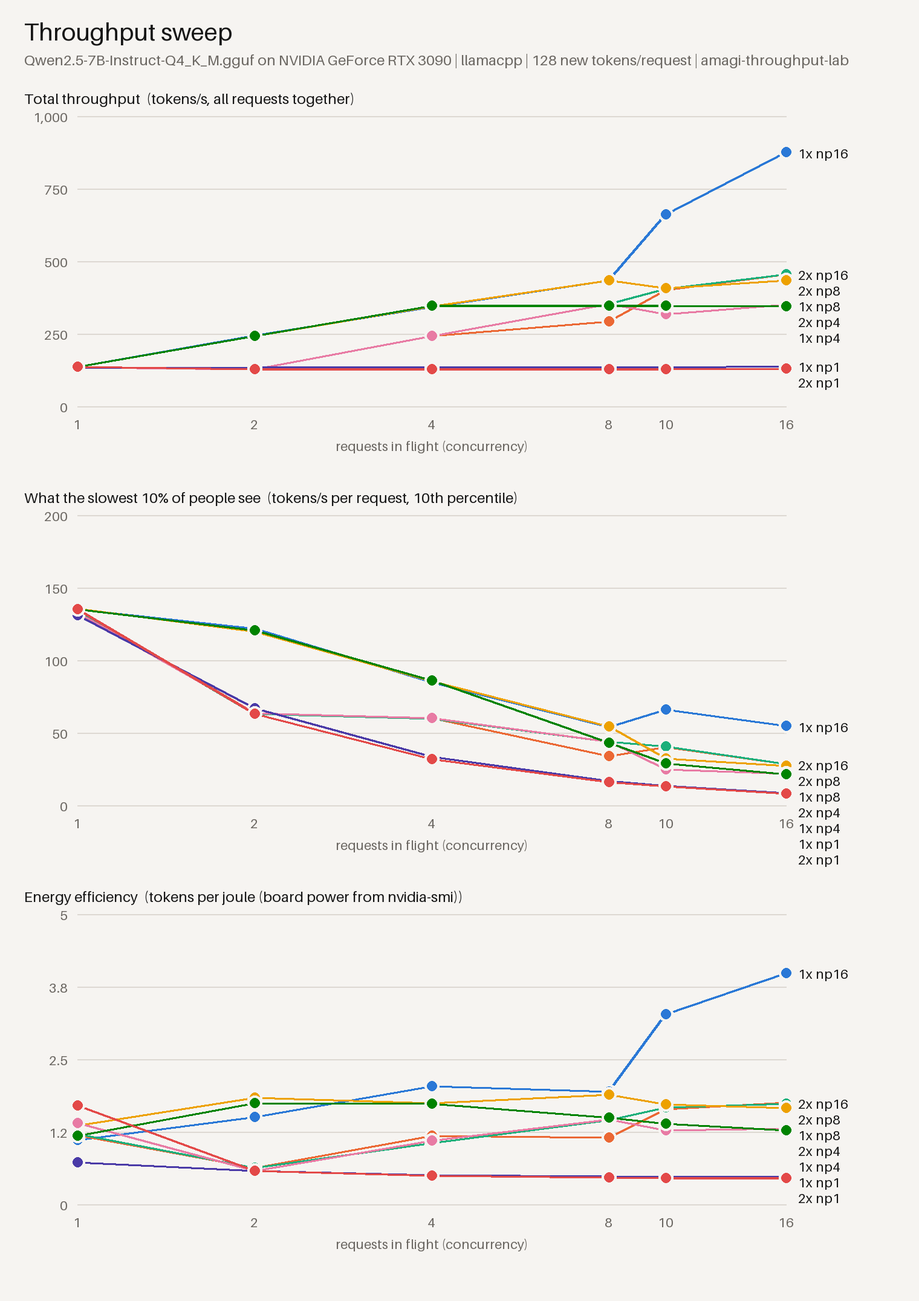
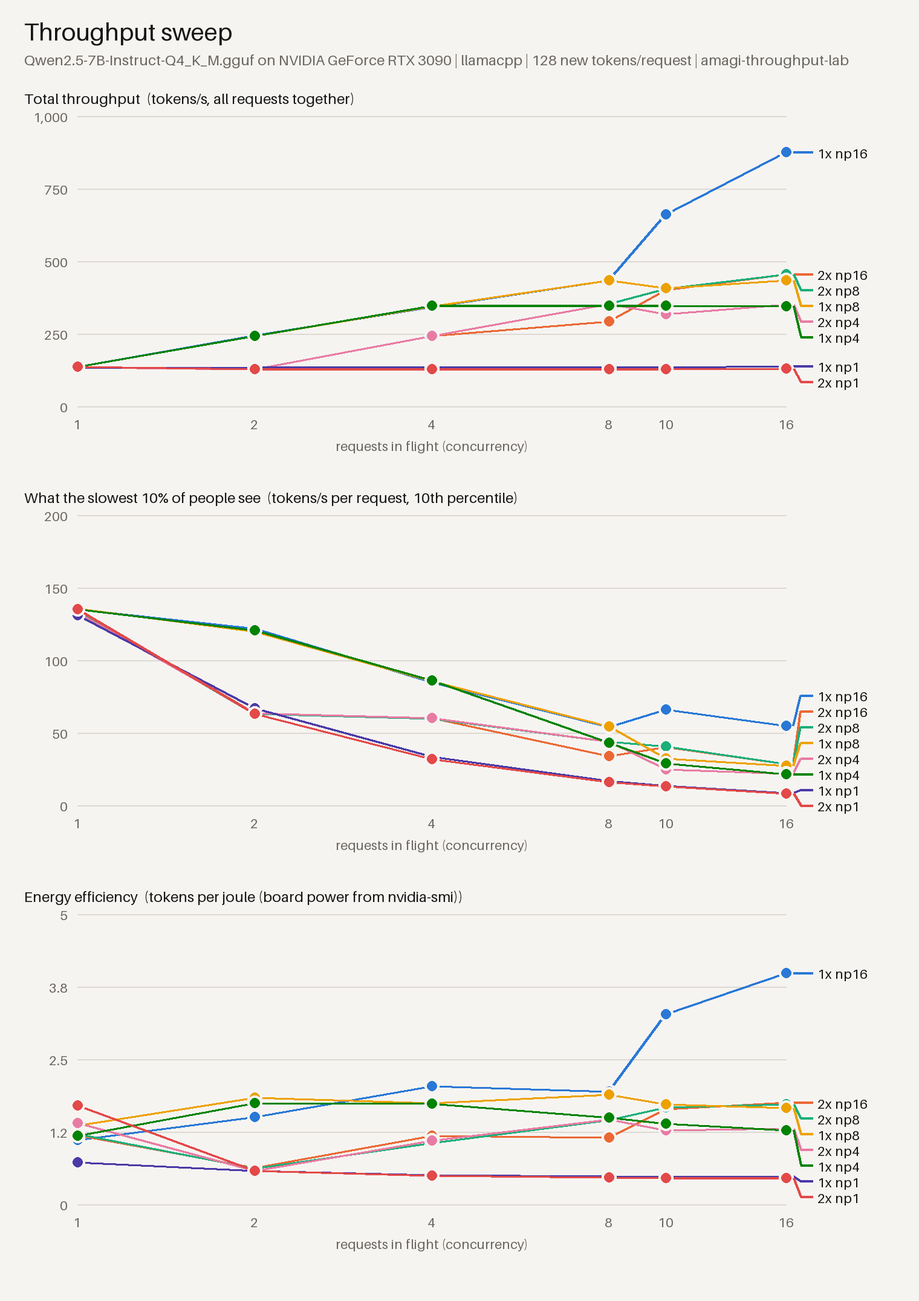
Charts: keep end labels above the axis and key them by color
Labels that had to move now get a short leader line in the series color,
and a crowded stack is pulled back up instead of running under the x-axis.
The recommendation box wraps long commands.

diff --git a/examples/rtx3090-qwen2.5-7b-q4km/report.html b/examples/rtx3090-qwen2.5-7b-q4km/report.html
@@ -14,7 +14,7 @@ h1{font-size:24px;margin:0 0 4px}h2{font-size:17px;margin:30px 0 2px}
 .pt:hover circle:last-of-type{r:6}
 .legend{display:flex;flex-wrap:wrap;gap:4px 16px;font-size:13px;margin:4px 0 0}
 .legend span::before{content:'';display:inline-block;width:14px;height:3px;border-radius:2px;margin-right:6px;vertical-align:middle;background:var(--c)}
-pre{background:var(--code);padding:12px;border-radius:6px;overflow:auto;font-size:13px}
+pre{background:var(--code);padding:12px;border-radius:6px;overflow:auto;white-space:pre-wrap;font-size:13px}
 table{border-collapse:collapse;font-size:12.5px;width:100%;margin-top:6px}
 th,td{padding:4px 6px;border-bottom:1px solid var(--grid);text-align:right}
 th{color:var(--muted);font-weight:600}td:last-child,th:last-child{text-align:left}
@@ -61,7 +61,8 @@ Also met the target:
 <g class="pt"><circle cx="503.5" cy="151.7" r="12" fill="transparent"/><circle cx="503.5" cy="151.7" r="4" fill="var(--s1)" stroke="var(--surface)" stroke-width="2"/><title>1x np16 at 8 in flight: 434.59</title></g>
 <g class="pt"><circle cx="550.7" cy="97.1" r="12" fill="transparent"/><circle cx="550.7" cy="97.1" r="4" fill="var(--s1)" stroke="var(--surface)" stroke-width="2"/><title>1x np16 at 10 in flight: 662.06</title></g>
 <g class="pt"><circle cx="650.0" cy="46.0" r="12" fill="transparent"/><circle cx="650.0" cy="46.0" r="4" fill="var(--s1)" stroke="var(--surface)" stroke-width="2"/><title>1x np16 at 16 in flight: 875.01</title></g>
-<text x="660.0" y="50.0" class="lbl">1x np16</text>
+<polyline points="656.0,46.0 662.0,46.0 672.0,46.0" fill="none" stroke="var(--s1)" stroke-width="2"/>
+<text x="676.0" y="50.0" class="lbl">1x np16</text>
 <path d="M64.0,223.4 L210.5,225.4 L357.0,197.9 L503.5,185.8 L550.7,159.5 L650.0,146.6" fill="none" stroke="var(--s2)" stroke-width="2" stroke-linejoin="round" stroke-linecap="round"/>
 <g class="pt"><circle cx="64.0" cy="223.4" r="12" fill="transparent"/><circle cx="64.0" cy="223.4" r="4" fill="var(--s2)" stroke="var(--surface)" stroke-width="2"/><title>2x np16 at 1 in flight: 135.70</title></g>
 <g class="pt"><circle cx="210.5" cy="225.4" r="12" fill="transparent"/><circle cx="210.5" cy="225.4" r="4" fill="var(--s2)" stroke="var(--surface)" stroke-width="2"/><title>2x np16 at 2 in flight: 127.70</title></g>
@@ -69,7 +70,8 @@ Also met the target:
 <g class="pt"><circle cx="503.5" cy="185.8" r="12" fill="transparent"/><circle cx="503.5" cy="185.8" r="4" fill="var(--s2)" stroke="var(--surface)" stroke-width="2"/><title>2x np16 at 8 in flight: 292.36</title></g>
 <g class="pt"><circle cx="550.7" cy="159.5" r="12" fill="transparent"/><circle cx="550.7" cy="159.5" r="4" fill="var(--s2)" stroke="var(--surface)" stroke-width="2"/><title>2x np16 at 10 in flight: 401.91</title></g>
 <g class="pt"><circle cx="650.0" cy="146.6" r="12" fill="transparent"/><circle cx="650.0" cy="146.6" r="4" fill="var(--s2)" stroke="var(--surface)" stroke-width="2"/><title>2x np16 at 16 in flight: 455.83</title></g>
-<text x="660.0" y="150.6" class="lbl">2x np16</text>
+<polyline points="656.0,146.6 662.0,146.6 672.0,146.6" fill="none" stroke="var(--s2)" stroke-width="2"/>
+<text x="676.0" y="150.6" class="lbl">2x np16</text>
 <path d="M64.0,223.5 L210.5,225.3 L357.0,197.9 L503.5,171.5 L550.7,158.9 L650.0,146.8" fill="none" stroke="var(--s3)" stroke-width="2" stroke-linejoin="round" stroke-linecap="round"/>
 <g class="pt"><circle cx="64.0" cy="223.5" r="12" fill="transparent"/><circle cx="64.0" cy="223.5" r="4" fill="var(--s3)" stroke="var(--surface)" stroke-width="2"/><title>2x np8 at 1 in flight: 135.40</title></g>
 <g class="pt"><circle cx="210.5" cy="225.3" r="12" fill="transparent"/><circle cx="210.5" cy="225.3" r="4" fill="var(--s3)" stroke="var(--surface)" stroke-width="2"/><title>2x np8 at 2 in flight: 127.71</title></g>
@@ -77,7 +79,8 @@ Also met the target:
 <g class="pt"><circle cx="503.5" cy="171.5" r="12" fill="transparent"/><circle cx="503.5" cy="171.5" r="4" fill="var(--s3)" stroke="var(--surface)" stroke-width="2"/><title>2x np8 at 8 in flight: 352.08</title></g>
 <g class="pt"><circle cx="550.7" cy="158.9" r="12" fill="transparent"/><circle cx="550.7" cy="158.9" r="4" fill="var(--s3)" stroke="var(--surface)" stroke-width="2"/><title>2x np8 at 10 in flight: 404.42</title></g>
 <g class="pt"><circle cx="650.0" cy="146.8" r="12" fill="transparent"/><circle cx="650.0" cy="146.8" r="4" fill="var(--s3)" stroke="var(--surface)" stroke-width="2"/><title>2x np8 at 16 in flight: 455.08</title></g>
-<text x="660.0" y="163.6" class="lbl">2x np8</text>
+<polyline points="656.0,146.8 662.0,159.6 672.0,159.6" fill="none" stroke="var(--s3)" stroke-width="2"/>
+<text x="676.0" y="163.6" class="lbl">2x np8</text>
 <path d="M64.0,223.0 L210.5,197.7 L357.0,173.1 L503.5,151.5 L550.7,158.4 L650.0,151.6" fill="none" stroke="var(--s4)" stroke-width="2" stroke-linejoin="round" stroke-linecap="round"/>
 <g class="pt"><circle cx="64.0" cy="223.0" r="12" fill="transparent"/><circle cx="64.0" cy="223.0" r="4" fill="var(--s4)" stroke="var(--surface)" stroke-width="2"/><title>1x np8 at 1 in flight: 137.32</title></g>
 <g class="pt"><circle cx="210.5" cy="197.7" r="12" fill="transparent"/><circle cx="210.5" cy="197.7" r="4" fill="var(--s4)" stroke="var(--surface)" stroke-width="2"/><title>1x np8 at 2 in flight: 242.75</title></g>
@@ -85,7 +88,8 @@ Also met the target:
 <g class="pt"><circle cx="503.5" cy="151.5" r="12" fill="transparent"/><circle cx="503.5" cy="151.5" r="4" fill="var(--s4)" stroke="var(--surface)" stroke-width="2"/><title>1x np8 at 8 in flight: 435.32</title></g>
 <g class="pt"><circle cx="550.7" cy="158.4" r="12" fill="transparent"/><circle cx="550.7" cy="158.4" r="4" fill="var(--s4)" stroke="var(--surface)" stroke-width="2"/><title>1x np8 at 10 in flight: 406.67</title></g>
 <g class="pt"><circle cx="650.0" cy="151.6" r="12" fill="transparent"/><circle cx="650.0" cy="151.6" r="4" fill="var(--s4)" stroke="var(--surface)" stroke-width="2"/><title>1x np8 at 16 in flight: 434.94</title></g>
-<text x="660.0" y="176.6" class="lbl">1x np8</text>
+<polyline points="656.0,151.6 662.0,172.6 672.0,172.6" fill="none" stroke="var(--s4)" stroke-width="2"/>
+<text x="676.0" y="176.6" class="lbl">1x np8</text>
 <path d="M64.0,223.6 L210.5,225.3 L357.0,198.0 L503.5,171.4 L550.7,179.6 L650.0,171.6" fill="none" stroke="var(--s5)" stroke-width="2" stroke-linejoin="round" stroke-linecap="round"/>
 <g class="pt"><circle cx="64.0" cy="223.6" r="12" fill="transparent"/><circle cx="64.0" cy="223.6" r="4" fill="var(--s5)" stroke="var(--surface)" stroke-width="2"/><title>2x np4 at 1 in flight: 134.92</title></g>
 <g class="pt"><circle cx="210.5" cy="225.3" r="12" fill="transparent"/><circle cx="210.5" cy="225.3" r="4" fill="var(--s5)" stroke="var(--surface)" stroke-width="2"/><title>2x np4 at 2 in flight: 127.88</title></g>
@@ -93,7 +97,8 @@ Also met the target:
 <g class="pt"><circle cx="503.5" cy="171.4" r="12" fill="transparent"/><circle cx="503.5" cy="171.4" r="4" fill="var(--s5)" stroke="var(--surface)" stroke-width="2"/><title>2x np4 at 8 in flight: 352.42</title></g>
 <g class="pt"><circle cx="550.7" cy="179.6" r="12" fill="transparent"/><circle cx="550.7" cy="179.6" r="4" fill="var(--s5)" stroke="var(--surface)" stroke-width="2"/><title>2x np4 at 10 in flight: 318.25</title></g>
 <g class="pt"><circle cx="650.0" cy="171.6" r="12" fill="transparent"/><circle cx="650.0" cy="171.6" r="4" fill="var(--s5)" stroke="var(--surface)" stroke-width="2"/><title>2x np4 at 16 in flight: 351.83</title></g>
-<text x="660.0" y="189.6" class="lbl">2x np4</text>
+<polyline points="656.0,171.6 662.0,185.6 672.0,185.6" fill="none" stroke="var(--s5)" stroke-width="2"/>
+<text x="676.0" y="189.6" class="lbl">2x np4</text>
 <path d="M64.0,223.1 L210.5,197.6 L357.0,172.7 L503.5,172.9 L550.7,172.8 L650.0,173.2" fill="none" stroke="var(--s6)" stroke-width="2" stroke-linejoin="round" stroke-linecap="round"/>
 <g class="pt"><circle cx="64.0" cy="223.1" r="12" fill="transparent"/><circle cx="64.0" cy="223.1" r="4" fill="var(--s6)" stroke="var(--surface)" stroke-width="2"/><title>1x np4 at 1 in flight: 137.03</title></g>
 <g class="pt"><circle cx="210.5" cy="197.6" r="12" fill="transparent"/><circle cx="210.5" cy="197.6" r="4" fill="var(--s6)" stroke="var(--surface)" stroke-width="2"/><title>1x np4 at 2 in flight: 243.28</title></g>
@@ -101,7 +106,8 @@ Also met the target:
 <g class="pt"><circle cx="503.5" cy="172.9" r="12" fill="transparent"/><circle cx="503.5" cy="172.9" r="4" fill="var(--s6)" stroke="var(--surface)" stroke-width="2"/><title>1x np4 at 8 in flight: 346.32</title></g>
 <g class="pt"><circle cx="550.7" cy="172.8" r="12" fill="transparent"/><circle cx="550.7" cy="172.8" r="4" fill="var(--s6)" stroke="var(--surface)" stroke-width="2"/><title>1x np4 at 10 in flight: 346.76</title></g>
 <g class="pt"><circle cx="650.0" cy="173.2" r="12" fill="transparent"/><circle cx="650.0" cy="173.2" r="4" fill="var(--s6)" stroke="var(--surface)" stroke-width="2"/><title>1x np4 at 16 in flight: 344.83</title></g>
-<text x="660.0" y="202.6" class="lbl">1x np4</text>
+<polyline points="656.0,173.2 662.0,198.6 672.0,198.6" fill="none" stroke="var(--s6)" stroke-width="2"/>
+<text x="676.0" y="202.6" class="lbl">1x np4</text>
 <path d="M64.0,224.1 L210.5,223.8 L357.0,223.7 L503.5,223.8 L550.7,223.9 L650.0,222.6" fill="none" stroke="var(--s7)" stroke-width="2" stroke-linejoin="round" stroke-linecap="round"/>
 <g class="pt"><circle cx="64.0" cy="224.1" r="12" fill="transparent"/><circle cx="64.0" cy="224.1" r="4" fill="var(--s7)" stroke="var(--surface)" stroke-width="2"/><title>1x np1 at 1 in flight: 133.09</title></g>
 <g class="pt"><circle cx="210.5" cy="223.8" r="12" fill="transparent"/><circle cx="210.5" cy="223.8" r="4" fill="var(--s7)" stroke="var(--surface)" stroke-width="2"/><title>1x np1 at 2 in flight: 134.35</title></g>
@@ -109,7 +115,8 @@ Also met the target:
 <g class="pt"><circle cx="503.5" cy="223.8" r="12" fill="transparent"/><circle cx="503.5" cy="223.8" r="4" fill="var(--s7)" stroke="var(--surface)" stroke-width="2"/><title>1x np1 at 8 in flight: 134.31</title></g>
 <g class="pt"><circle cx="550.7" cy="223.9" r="12" fill="transparent"/><circle cx="550.7" cy="223.9" r="4" fill="var(--s7)" stroke="var(--surface)" stroke-width="2"/><title>1x np1 at 10 in flight: 133.75</title></g>
 <g class="pt"><circle cx="650.0" cy="222.6" r="12" fill="transparent"/><circle cx="650.0" cy="222.6" r="4" fill="var(--s7)" stroke="var(--surface)" stroke-width="2"/><title>1x np1 at 16 in flight: 139.20</title></g>
-<text x="660.0" y="226.6" class="lbl">1x np1</text>
+<polyline points="656.0,222.6 662.0,222.6 672.0,222.6" fill="none" stroke="var(--s7)" stroke-width="2"/>
+<text x="676.0" y="226.6" class="lbl">1x np1</text>
 <path d="M64.0,223.2 L210.5,225.4 L357.0,225.2 L503.5,225.0 L550.7,225.0 L650.0,225.0" fill="none" stroke="var(--s8)" stroke-width="2" stroke-linejoin="round" stroke-linecap="round"/>
 <g class="pt"><circle cx="64.0" cy="223.2" r="12" fill="transparent"/><circle cx="64.0" cy="223.2" r="4" fill="var(--s8)" stroke="var(--surface)" stroke-width="2"/><title>2x np1 at 1 in flight: 136.46</title></g>
 <g class="pt"><circle cx="210.5" cy="225.4" r="12" fill="transparent"/><circle cx="210.5" cy="225.4" r="4" fill="var(--s8)" stroke="var(--surface)" stroke-width="2"/><title>2x np1 at 2 in flight: 127.43</title></g>
@@ -117,7 +124,8 @@ Also met the target:
 <g class="pt"><circle cx="503.5" cy="225.0" r="12" fill="transparent"/><circle cx="503.5" cy="225.0" r="4" fill="var(--s8)" stroke="var(--surface)" stroke-width="2"/><title>2x np1 at 8 in flight: 129.01</title></g>
 <g class="pt"><circle cx="550.7" cy="225.0" r="12" fill="transparent"/><circle cx="550.7" cy="225.0" r="4" fill="var(--s8)" stroke="var(--surface)" stroke-width="2"/><title>2x np1 at 10 in flight: 129.07</title></g>
 <g class="pt"><circle cx="650.0" cy="225.0" r="12" fill="transparent"/><circle cx="650.0" cy="225.0" r="4" fill="var(--s8)" stroke="var(--surface)" stroke-width="2"/><title>2x np1 at 16 in flight: 129.22</title></g>
-<text x="660.0" y="239.6" class="lbl">2x np1</text>
+<polyline points="656.0,225.0 662.0,235.6 672.0,235.6" fill="none" stroke="var(--s8)" stroke-width="2"/>
+<text x="676.0" y="239.6" class="lbl">2x np1</text>
 </svg>
 <div class="legend"><span style="--c:var(--s1)">1x np16</span><span style="--c:var(--s2)">2x np16</span><span style="--c:var(--s3)">2x np8</span><span style="--c:var(--s4)">1x np8</span><span style="--c:var(--s5)">2x np4</span><span style="--c:var(--s6)">1x np4</span><span style="--c:var(--s7)">1x np1</span><span style="--c:var(--s8)">2x np1</span></div>
 <h2>What the slowest 10% of people see</h2><p class="unit">tokens/s per request, 10th percentile</p>
@@ -147,7 +155,8 @@ Also met the target:
 <g class="pt"><circle cx="503.5" cy="191.0" r="12" fill="transparent"/><circle cx="503.5" cy="191.0" r="4" fill="var(--s1)" stroke="var(--surface)" stroke-width="2"/><title>1x np16 at 8 in flight: 54.15</title></g>
 <g class="pt"><circle cx="550.7" cy="176.9" r="12" fill="transparent"/><circle cx="550.7" cy="176.9" r="4" fill="var(--s1)" stroke="var(--surface)" stroke-width="2"/><title>1x np16 at 10 in flight: 65.92</title></g>
 <g class="pt"><circle cx="650.0" cy="190.5" r="12" fill="transparent"/><circle cx="650.0" cy="190.5" r="4" fill="var(--s1)" stroke="var(--surface)" stroke-width="2"/><title>1x np16 at 16 in flight: 54.59</title></g>
-<text x="660.0" y="194.5" class="lbl">1x np16</text>
+<polyline points="656.0,190.5 662.0,165.0 672.0,165.0" fill="none" stroke="var(--s1)" stroke-width="2"/>
+<text x="676.0" y="169.0" class="lbl">1x np16</text>
 <path d="M64.0,95.0 L210.5,179.9 L357.0,184.0 L503.5,215.4 L550.7,207.9 L650.0,221.9" fill="none" stroke="var(--s2)" stroke-width="2" stroke-linejoin="round" stroke-linecap="round"/>
 <g class="pt"><circle cx="64.0" cy="95.0" r="12" fill="transparent"/><circle cx="64.0" cy="95.0" r="4" fill="var(--s2)" stroke="var(--surface)" stroke-width="2"/><title>2x np16 at 1 in flight: 134.19</title></g>
 <g class="pt"><circle cx="210.5" cy="179.9" r="12" fill="transparent"/><circle cx="210.5" cy="179.9" r="4" fill="var(--s2)" stroke="var(--surface)" stroke-width="2"/><title>2x np16 at 2 in flight: 63.40</title></g>
@@ -155,7 +164,8 @@ Also met the target:
 <g class="pt"><circle cx="503.5" cy="215.4" r="12" fill="transparent"/><circle cx="503.5" cy="215.4" r="4" fill="var(--s2)" stroke="var(--surface)" stroke-width="2"/><title>2x np16 at 8 in flight: 33.80</title></g>
 <g class="pt"><circle cx="550.7" cy="207.9" r="12" fill="transparent"/><circle cx="550.7" cy="207.9" r="4" fill="var(--s2)" stroke="var(--surface)" stroke-width="2"/><title>2x np16 at 10 in flight: 40.12</title></g>
 <g class="pt"><circle cx="650.0" cy="221.9" r="12" fill="transparent"/><circle cx="650.0" cy="221.9" r="4" fill="var(--s2)" stroke="var(--surface)" stroke-width="2"/><title>2x np16 at 16 in flight: 28.44</title></g>
-<text x="660.0" y="225.9" class="lbl">2x np16</text>
+<polyline points="656.0,221.9 662.0,178.0 672.0,178.0" fill="none" stroke="var(--s2)" stroke-width="2"/>
+<text x="676.0" y="182.0" class="lbl">2x np16</text>
 <path d="M64.0,94.8 L210.5,180.1 L357.0,184.1 L503.5,203.4 L550.7,207.5 L650.0,221.9" fill="none" stroke="var(--s3)" stroke-width="2" stroke-linejoin="round" stroke-linecap="round"/>
 <g class="pt"><circle cx="64.0" cy="94.8" r="12" fill="transparent"/><circle cx="64.0" cy="94.8" r="4" fill="var(--s3)" stroke="var(--surface)" stroke-width="2"/><title>2x np8 at 1 in flight: 134.34</title></g>
 <g class="pt"><circle cx="210.5" cy="180.1" r="12" fill="transparent"/><circle cx="210.5" cy="180.1" r="4" fill="var(--s3)" stroke="var(--surface)" stroke-width="2"/><title>2x np8 at 2 in flight: 63.29</title></g>
@@ -163,7 +173,8 @@ Also met the target:
 <g class="pt"><circle cx="503.5" cy="203.4" r="12" fill="transparent"/><circle cx="503.5" cy="203.4" r="4" fill="var(--s3)" stroke="var(--surface)" stroke-width="2"/><title>2x np8 at 8 in flight: 43.85</title></g>
 <g class="pt"><circle cx="550.7" cy="207.5" r="12" fill="transparent"/><circle cx="550.7" cy="207.5" r="4" fill="var(--s3)" stroke="var(--surface)" stroke-width="2"/><title>2x np8 at 10 in flight: 40.43</title></g>
 <g class="pt"><circle cx="650.0" cy="221.9" r="12" fill="transparent"/><circle cx="650.0" cy="221.9" r="4" fill="var(--s3)" stroke="var(--surface)" stroke-width="2"/><title>2x np8 at 16 in flight: 28.42</title></g>
-<text x="660.0" y="238.9" class="lbl">2x np8</text>
+<polyline points="656.0,221.9 662.0,191.0 672.0,191.0" fill="none" stroke="var(--s3)" stroke-width="2"/>
+<text x="676.0" y="195.0" class="lbl">2x np8</text>
 <path d="M64.0,93.1 L210.5,112.4 L357.0,153.3 L503.5,190.8 L550.7,217.3 L650.0,223.4" fill="none" stroke="var(--s4)" stroke-width="2" stroke-linejoin="round" stroke-linecap="round"/>
 <g class="pt"><circle cx="64.0" cy="93.1" r="12" fill="transparent"/><circle cx="64.0" cy="93.1" r="4" fill="var(--s4)" stroke="var(--surface)" stroke-width="2"/><title>1x np8 at 1 in flight: 135.76</title></g>
 <g class="pt"><circle cx="210.5" cy="112.4" r="12" fill="transparent"/><circle cx="210.5" cy="112.4" r="4" fill="var(--s4)" stroke="var(--surface)" stroke-width="2"/><title>1x np8 at 2 in flight: 119.65</title></g>
@@ -171,7 +182,8 @@ Also met the target:
 <g class="pt"><circle cx="503.5" cy="190.8" r="12" fill="transparent"/><circle cx="503.5" cy="190.8" r="4" fill="var(--s4)" stroke="var(--surface)" stroke-width="2"/><title>1x np8 at 8 in flight: 54.31</title></g>
 <g class="pt"><circle cx="550.7" cy="217.3" r="12" fill="transparent"/><circle cx="550.7" cy="217.3" r="4" fill="var(--s4)" stroke="var(--surface)" stroke-width="2"/><title>1x np8 at 10 in flight: 32.22</title></g>
 <g class="pt"><circle cx="650.0" cy="223.4" r="12" fill="transparent"/><circle cx="650.0" cy="223.4" r="4" fill="var(--s4)" stroke="var(--surface)" stroke-width="2"/><title>1x np8 at 16 in flight: 27.20</title></g>
-<text x="660.0" y="251.9" class="lbl">1x np8</text>
+<polyline points="656.0,223.4 662.0,204.0 672.0,204.0" fill="none" stroke="var(--s4)" stroke-width="2"/>
+<text x="676.0" y="208.0" class="lbl">1x np8</text>
 <path d="M64.0,96.5 L210.5,180.0 L357.0,184.0 L503.5,203.3 L550.7,226.4 L650.0,229.6" fill="none" stroke="var(--s5)" stroke-width="2" stroke-linejoin="round" stroke-linecap="round"/>
 <g class="pt"><circle cx="64.0" cy="96.5" r="12" fill="transparent"/><circle cx="64.0" cy="96.5" r="4" fill="var(--s5)" stroke="var(--surface)" stroke-width="2"/><title>2x np4 at 1 in flight: 132.89</title></g>
 <g class="pt"><circle cx="210.5" cy="180.0" r="12" fill="transparent"/><circle cx="210.5" cy="180.0" r="4" fill="var(--s5)" stroke="var(--surface)" stroke-width="2"/><title>2x np4 at 2 in flight: 63.37</title></g>
@@ -179,7 +191,8 @@ Also met the target:
 <g class="pt"><circle cx="503.5" cy="203.3" r="12" fill="transparent"/><circle cx="503.5" cy="203.3" r="4" fill="var(--s5)" stroke="var(--surface)" stroke-width="2"/><title>2x np4 at 8 in flight: 43.88</title></g>
 <g class="pt"><circle cx="550.7" cy="226.4" r="12" fill="transparent"/><circle cx="550.7" cy="226.4" r="4" fill="var(--s5)" stroke="var(--surface)" stroke-width="2"/><title>2x np4 at 10 in flight: 24.69</title></g>
 <g class="pt"><circle cx="650.0" cy="229.6" r="12" fill="transparent"/><circle cx="650.0" cy="229.6" r="4" fill="var(--s5)" stroke="var(--surface)" stroke-width="2"/><title>2x np4 at 16 in flight: 22.00</title></g>
-<text x="660.0" y="264.9" class="lbl">2x np4</text>
+<polyline points="656.0,229.6 662.0,217.0 672.0,217.0" fill="none" stroke="var(--s5)" stroke-width="2"/>
+<text x="676.0" y="221.0" class="lbl">2x np4</text>
 <path d="M64.0,93.6 L210.5,111.3 L357.0,152.5 L503.5,204.2 L550.7,221.2 L650.0,230.1" fill="none" stroke="var(--s6)" stroke-width="2" stroke-linejoin="round" stroke-linecap="round"/>
 <g class="pt"><circle cx="64.0" cy="93.6" r="12" fill="transparent"/><circle cx="64.0" cy="93.6" r="4" fill="var(--s6)" stroke="var(--surface)" stroke-width="2"/><title>1x np4 at 1 in flight: 135.35</title></g>
 <g class="pt"><circle cx="210.5" cy="111.3" r="12" fill="transparent"/><circle cx="210.5" cy="111.3" r="4" fill="var(--s6)" stroke="var(--surface)" stroke-width="2"/><title>1x np4 at 2 in flight: 120.62</title></g>
@@ -187,7 +200,8 @@ Also met the target:
 <g class="pt"><circle cx="503.5" cy="204.2" r="12" fill="transparent"/><circle cx="503.5" cy="204.2" r="4" fill="var(--s6)" stroke="var(--surface)" stroke-width="2"/><title>1x np4 at 8 in flight: 43.15</title></g>
 <g class="pt"><circle cx="550.7" cy="221.2" r="12" fill="transparent"/><circle cx="550.7" cy="221.2" r="4" fill="var(--s6)" stroke="var(--surface)" stroke-width="2"/><title>1x np4 at 10 in flight: 28.99</title></g>
 <g class="pt"><circle cx="650.0" cy="230.1" r="12" fill="transparent"/><circle cx="650.0" cy="230.1" r="4" fill="var(--s6)" stroke="var(--surface)" stroke-width="2"/><title>1x np4 at 16 in flight: 21.57</title></g>
-<text x="660.0" y="277.9" class="lbl">1x np4</text>
+<polyline points="656.0,230.1 662.0,230.0 672.0,230.0" fill="none" stroke="var(--s6)" stroke-width="2"/>
+<text x="676.0" y="234.0" class="lbl">1x np4</text>
 <path d="M64.0,98.8 L210.5,175.7 L357.0,215.8 L503.5,235.9 L550.7,240.0 L650.0,245.5" fill="none" stroke="var(--s7)" stroke-width="2" stroke-linejoin="round" stroke-linecap="round"/>
 <g class="pt"><circle cx="64.0" cy="98.8" r="12" fill="transparent"/><circle cx="64.0" cy="98.8" r="4" fill="var(--s7)" stroke="var(--surface)" stroke-width="2"/><title>1x np1 at 1 in flight: 131.01</title></g>
 <g class="pt"><circle cx="210.5" cy="175.7" r="12" fill="transparent"/><circle cx="210.5" cy="175.7" r="4" fill="var(--s7)" stroke="var(--surface)" stroke-width="2"/><title>1x np1 at 2 in flight: 66.89</title></g>
@@ -195,7 +209,8 @@ Also met the target:
 <g class="pt"><circle cx="503.5" cy="235.9" r="12" fill="transparent"/><circle cx="503.5" cy="235.9" r="4" fill="var(--s7)" stroke="var(--surface)" stroke-width="2"/><title>1x np1 at 8 in flight: 16.75</title></g>
 <g class="pt"><circle cx="550.7" cy="240.0" r="12" fill="transparent"/><circle cx="550.7" cy="240.0" r="4" fill="var(--s7)" stroke="var(--surface)" stroke-width="2"/><title>1x np1 at 10 in flight: 13.35</title></g>
 <g class="pt"><circle cx="650.0" cy="245.5" r="12" fill="transparent"/><circle cx="650.0" cy="245.5" r="4" fill="var(--s7)" stroke="var(--surface)" stroke-width="2"/><title>1x np1 at 16 in flight: 8.72</title></g>
-<text x="660.0" y="290.9" class="lbl">1x np1</text>
+<polyline points="656.0,245.5 662.0,243.0 672.0,243.0" fill="none" stroke="var(--s7)" stroke-width="2"/>
+<text x="676.0" y="247.0" class="lbl">1x np1</text>
 <path d="M64.0,93.8 L210.5,180.1 L357.0,217.7 L503.5,236.6 L550.7,240.5 L650.0,246.3" fill="none" stroke="var(--s8)" stroke-width="2" stroke-linejoin="round" stroke-linecap="round"/>
 <g class="pt"><circle cx="64.0" cy="93.8" r="12" fill="transparent"/><circle cx="64.0" cy="93.8" r="4" fill="var(--s8)" stroke="var(--surface)" stroke-width="2"/><title>2x np1 at 1 in flight: 135.16</title></g>
 <g class="pt"><circle cx="210.5" cy="180.1" r="12" fill="transparent"/><circle cx="210.5" cy="180.1" r="4" fill="var(--s8)" stroke="var(--surface)" stroke-width="2"/><title>2x np1 at 2 in flight: 63.26</title></g>
@@ -203,7 +218,8 @@ Also met the target:
 <g class="pt"><circle cx="503.5" cy="236.6" r="12" fill="transparent"/><circle cx="503.5" cy="236.6" r="4" fill="var(--s8)" stroke="var(--surface)" stroke-width="2"/><title>2x np1 at 8 in flight: 16.13</title></g>
 <g class="pt"><circle cx="550.7" cy="240.5" r="12" fill="transparent"/><circle cx="550.7" cy="240.5" r="4" fill="var(--s8)" stroke="var(--surface)" stroke-width="2"/><title>2x np1 at 10 in flight: 12.94</title></g>
 <g class="pt"><circle cx="650.0" cy="246.3" r="12" fill="transparent"/><circle cx="650.0" cy="246.3" r="4" fill="var(--s8)" stroke="var(--surface)" stroke-width="2"/><title>2x np1 at 16 in flight: 8.09</title></g>
-<text x="660.0" y="303.9" class="lbl">2x np1</text>
+<polyline points="656.0,246.3 662.0,256.0 672.0,256.0" fill="none" stroke="var(--s8)" stroke-width="2"/>
+<text x="676.0" y="260.0" class="lbl">2x np1</text>
 </svg>
 <div class="legend"><span style="--c:var(--s1)">1x np16</span><span style="--c:var(--s2)">2x np16</span><span style="--c:var(--s3)">2x np8</span><span style="--c:var(--s4)">1x np8</span><span style="--c:var(--s5)">2x np4</span><span style="--c:var(--s6)">1x np4</span><span style="--c:var(--s7)">1x np1</span><span style="--c:var(--s8)">2x np1</span></div>
 <h2>Energy efficiency</h2><p class="unit">tokens per joule (board power from nvidia-smi)</p>
@@ -233,7 +249,8 @@ Also met the target:
 <g class="pt"><circle cx="503.5" cy="162.7" r="12" fill="transparent"/><circle cx="503.5" cy="162.7" r="4" fill="var(--s1)" stroke="var(--surface)" stroke-width="2"/><title>1x np16 at 8 in flight: 1.94</title></g>
 <g class="pt"><circle cx="550.7" cy="98.7" r="12" fill="transparent"/><circle cx="550.7" cy="98.7" r="4" fill="var(--s1)" stroke="var(--surface)" stroke-width="2"/><title>1x np16 at 10 in flight: 3.28</title></g>
 <g class="pt"><circle cx="650.0" cy="64.6" r="12" fill="transparent"/><circle cx="650.0" cy="64.6" r="4" fill="var(--s1)" stroke="var(--surface)" stroke-width="2"/><title>1x np16 at 16 in flight: 3.99</title></g>
-<text x="660.0" y="68.6" class="lbl">1x np16</text>
+<polyline points="656.0,64.6 662.0,64.6 672.0,64.6" fill="none" stroke="var(--s1)" stroke-width="2"/>
+<text x="676.0" y="68.6" class="lbl">1x np16</text>
 <path d="M64.0,198.6 L210.5,225.9 L357.0,199.2 L503.5,200.8 L550.7,177.2 L650.0,171.9" fill="none" stroke="var(--s2)" stroke-width="2" stroke-linejoin="round" stroke-linecap="round"/>
 <g class="pt"><circle cx="64.0" cy="198.6" r="12" fill="transparent"/><circle cx="64.0" cy="198.6" r="4" fill="var(--s2)" stroke="var(--surface)" stroke-width="2"/><title>2x np16 at 1 in flight: 1.20</title></g>
 <g class="pt"><circle cx="210.5" cy="225.9" r="12" fill="transparent"/><circle cx="210.5" cy="225.9" r="4" fill="var(--s2)" stroke="var(--surface)" stroke-width="2"/><title>2x np16 at 2 in flight: 0.63</title></g>
@@ -241,7 +258,8 @@ Also met the target:
 <g class="pt"><circle cx="503.5" cy="200.8" r="12" fill="transparent"/><circle cx="503.5" cy="200.8" r="4" fill="var(--s2)" stroke="var(--surface)" stroke-width="2"/><title>2x np16 at 8 in flight: 1.15</title></g>
 <g class="pt"><circle cx="550.7" cy="177.2" r="12" fill="transparent"/><circle cx="550.7" cy="177.2" r="4" fill="var(--s2)" stroke="var(--surface)" stroke-width="2"/><title>2x np16 at 10 in flight: 1.64</title></g>
 <g class="pt"><circle cx="650.0" cy="171.9" r="12" fill="transparent"/><circle cx="650.0" cy="171.9" r="4" fill="var(--s2)" stroke="var(--surface)" stroke-width="2"/><title>2x np16 at 16 in flight: 1.75</title></g>
-<text x="660.0" y="175.9" class="lbl">2x np16</text>
+<polyline points="656.0,171.9 662.0,171.9 672.0,171.9" fill="none" stroke="var(--s2)" stroke-width="2"/>
+<text x="676.0" y="175.9" class="lbl">2x np16</text>
 <path d="M64.0,197.9 L210.5,226.0 L357.0,205.4 L503.5,186.1 L550.7,175.6 L650.0,173.0" fill="none" stroke="var(--s3)" stroke-width="2" stroke-linejoin="round" stroke-linecap="round"/>
 <g class="pt"><circle cx="64.0" cy="197.9" r="12" fill="transparent"/><circle cx="64.0" cy="197.9" r="4" fill="var(--s3)" stroke="var(--surface)" stroke-width="2"/><title>2x np8 at 1 in flight: 1.21</title></g>
 <g class="pt"><circle cx="210.5" cy="226.0" r="12" fill="transparent"/><circle cx="210.5" cy="226.0" r="4" fill="var(--s3)" stroke="var(--surface)" stroke-width="2"/><title>2x np8 at 2 in flight: 0.62</title></g>
@@ -249,7 +267,8 @@ Also met the target:
 <g class="pt"><circle cx="503.5" cy="186.1" r="12" fill="transparent"/><circle cx="503.5" cy="186.1" r="4" fill="var(--s3)" stroke="var(--surface)" stroke-width="2"/><title>2x np8 at 8 in flight: 1.46</title></g>
 <g class="pt"><circle cx="550.7" cy="175.6" r="12" fill="transparent"/><circle cx="550.7" cy="175.6" r="4" fill="var(--s3)" stroke="var(--surface)" stroke-width="2"/><title>2x np8 at 10 in flight: 1.68</title></g>
 <g class="pt"><circle cx="650.0" cy="173.0" r="12" fill="transparent"/><circle cx="650.0" cy="173.0" r="4" fill="var(--s3)" stroke="var(--surface)" stroke-width="2"/><title>2x np8 at 16 in flight: 1.73</title></g>
-<text x="660.0" y="188.9" class="lbl">2x np8</text>
+<polyline points="656.0,173.0 662.0,184.9 672.0,184.9" fill="none" stroke="var(--s3)" stroke-width="2"/>
+<text x="676.0" y="188.9" class="lbl">2x np8</text>
 <path d="M64.0,190.9 L210.5,167.8 L357.0,172.4 L503.5,165.4 L550.7,173.3 L650.0,176.1" fill="none" stroke="var(--s4)" stroke-width="2" stroke-linejoin="round" stroke-linecap="round"/>
 <g class="pt"><circle cx="64.0" cy="190.9" r="12" fill="transparent"/><circle cx="64.0" cy="190.9" r="4" fill="var(--s4)" stroke="var(--surface)" stroke-width="2"/><title>1x np8 at 1 in flight: 1.36</title></g>
 <g class="pt"><circle cx="210.5" cy="167.8" r="12" fill="transparent"/><circle cx="210.5" cy="167.8" r="4" fill="var(--s4)" stroke="var(--surface)" stroke-width="2"/><title>1x np8 at 2 in flight: 1.84</title></g>
@@ -257,7 +276,8 @@ Also met the target:
 <g class="pt"><circle cx="503.5" cy="165.4" r="12" fill="transparent"/><circle cx="503.5" cy="165.4" r="4" fill="var(--s4)" stroke="var(--surface)" stroke-width="2"/><title>1x np8 at 8 in flight: 1.89</title></g>
 <g class="pt"><circle cx="550.7" cy="173.3" r="12" fill="transparent"/><circle cx="550.7" cy="173.3" r="4" fill="var(--s4)" stroke="var(--surface)" stroke-width="2"/><title>1x np8 at 10 in flight: 1.72</title></g>
 <g class="pt"><circle cx="650.0" cy="176.1" r="12" fill="transparent"/><circle cx="650.0" cy="176.1" r="4" fill="var(--s4)" stroke="var(--surface)" stroke-width="2"/><title>1x np8 at 16 in flight: 1.67</title></g>
-<text x="660.0" y="201.9" class="lbl">1x np8</text>
+<polyline points="656.0,176.1 662.0,197.9 672.0,197.9" fill="none" stroke="var(--s4)" stroke-width="2"/>
+<text x="676.0" y="201.9" class="lbl">1x np8</text>
 <path d="M64.0,188.7 L210.5,228.2 L357.0,203.4 L503.5,185.5 L550.7,194.9 L650.0,193.3" fill="none" stroke="var(--s5)" stroke-width="2" stroke-linejoin="round" stroke-linecap="round"/>
 <g class="pt"><circle cx="64.0" cy="188.7" r="12" fill="transparent"/><circle cx="64.0" cy="188.7" r="4" fill="var(--s5)" stroke="var(--surface)" stroke-width="2"/><title>2x np4 at 1 in flight: 1.40</title></g>
 <g class="pt"><circle cx="210.5" cy="228.2" r="12" fill="transparent"/><circle cx="210.5" cy="228.2" r="4" fill="var(--s5)" stroke="var(--surface)" stroke-width="2"/><title>2x np4 at 2 in flight: 0.58</title></g>
@@ -265,7 +285,8 @@ Also met the target:
 <g class="pt"><circle cx="503.5" cy="185.5" r="12" fill="transparent"/><circle cx="503.5" cy="185.5" r="4" fill="var(--s5)" stroke="var(--surface)" stroke-width="2"/><title>2x np4 at 8 in flight: 1.47</title></g>
 <g class="pt"><circle cx="550.7" cy="194.9" r="12" fill="transparent"/><circle cx="550.7" cy="194.9" r="4" fill="var(--s5)" stroke="var(--surface)" stroke-width="2"/><title>2x np4 at 10 in flight: 1.27</title></g>
 <g class="pt"><circle cx="650.0" cy="193.3" r="12" fill="transparent"/><circle cx="650.0" cy="193.3" r="4" fill="var(--s5)" stroke="var(--surface)" stroke-width="2"/><title>2x np4 at 16 in flight: 1.31</title></g>
-<text x="660.0" y="214.9" class="lbl">2x np4</text>
+<polyline points="656.0,193.3 662.0,210.9 672.0,210.9" fill="none" stroke="var(--s5)" stroke-width="2"/>
+<text x="676.0" y="214.9" class="lbl">2x np4</text>
 <path d="M64.0,199.3 L210.5,172.2 L357.0,172.7 L503.5,184.0 L550.7,189.1 L650.0,194.9" fill="none" stroke="var(--s6)" stroke-width="2" stroke-linejoin="round" stroke-linecap="round"/>
 <g class="pt"><circle cx="64.0" cy="199.3" r="12" fill="transparent"/><circle cx="64.0" cy="199.3" r="4" fill="var(--s6)" stroke="var(--surface)" stroke-width="2"/><title>1x np4 at 1 in flight: 1.18</title></g>
 <g class="pt"><circle cx="210.5" cy="172.2" r="12" fill="transparent"/><circle cx="210.5" cy="172.2" r="4" fill="var(--s6)" stroke="var(--surface)" stroke-width="2"/><title>1x np4 at 2 in flight: 1.75</title></g>
@@ -273,7 +294,8 @@ Also met the target:
 <g class="pt"><circle cx="503.5" cy="184.0" r="12" fill="transparent"/><circle cx="503.5" cy="184.0" r="4" fill="var(--s6)" stroke="var(--surface)" stroke-width="2"/><title>1x np4 at 8 in flight: 1.50</title></g>
 <g class="pt"><circle cx="550.7" cy="189.1" r="12" fill="transparent"/><circle cx="550.7" cy="189.1" r="4" fill="var(--s6)" stroke="var(--surface)" stroke-width="2"/><title>1x np4 at 10 in flight: 1.39</title></g>
 <g class="pt"><circle cx="650.0" cy="194.9" r="12" fill="transparent"/><circle cx="650.0" cy="194.9" r="4" fill="var(--s6)" stroke="var(--surface)" stroke-width="2"/><title>1x np4 at 16 in flight: 1.27</title></g>
-<text x="660.0" y="227.9" class="lbl">1x np4</text>
+<polyline points="656.0,194.9 662.0,223.9 672.0,223.9" fill="none" stroke="var(--s6)" stroke-width="2"/>
+<text x="676.0" y="227.9" class="lbl">1x np4</text>
 <path d="M64.0,221.3 L210.5,228.1 L357.0,231.9 L503.5,232.9 L550.7,233.4 L650.0,232.8" fill="none" stroke="var(--s7)" stroke-width="2" stroke-linejoin="round" stroke-linecap="round"/>
 <g class="pt"><circle cx="64.0" cy="221.3" r="12" fill="transparent"/><circle cx="64.0" cy="221.3" r="4" fill="var(--s7)" stroke="var(--surface)" stroke-width="2"/><title>1x np1 at 1 in flight: 0.72</title></g>
 <g class="pt"><circle cx="210.5" cy="228.1" r="12" fill="transparent"/><circle cx="210.5" cy="228.1" r="4" fill="var(--s7)" stroke="var(--surface)" stroke-width="2"/><title>1x np1 at 2 in flight: 0.58</title></g>
@@ -281,7 +303,8 @@ Also met the target:
 <g class="pt"><circle cx="503.5" cy="232.9" r="12" fill="transparent"/><circle cx="503.5" cy="232.9" r="4" fill="var(--s7)" stroke="var(--surface)" stroke-width="2"/><title>1x np1 at 8 in flight: 0.48</title></g>
 <g class="pt"><circle cx="550.7" cy="233.4" r="12" fill="transparent"/><circle cx="550.7" cy="233.4" r="4" fill="var(--s7)" stroke="var(--surface)" stroke-width="2"/><title>1x np1 at 10 in flight: 0.47</title></g>
 <g class="pt"><circle cx="650.0" cy="232.8" r="12" fill="transparent"/><circle cx="650.0" cy="232.8" r="4" fill="var(--s7)" stroke="var(--surface)" stroke-width="2"/><title>1x np1 at 16 in flight: 0.48</title></g>
-<text x="660.0" y="240.9" class="lbl">1x np1</text>
+<polyline points="656.0,232.8 662.0,236.9 672.0,236.9" fill="none" stroke="var(--s7)" stroke-width="2"/>
+<text x="676.0" y="240.9" class="lbl">1x np1</text>
 <path d="M64.0,174.2 L210.5,228.3 L357.0,232.3 L503.5,233.7 L550.7,234.2 L650.0,234.4" fill="none" stroke="var(--s8)" stroke-width="2" stroke-linejoin="round" stroke-linecap="round"/>
 <g class="pt"><circle cx="64.0" cy="174.2" r="12" fill="transparent"/><circle cx="64.0" cy="174.2" r="4" fill="var(--s8)" stroke="var(--surface)" stroke-width="2"/><title>2x np1 at 1 in flight: 1.71</title></g>
 <g class="pt"><circle cx="210.5" cy="228.3" r="12" fill="transparent"/><circle cx="210.5" cy="228.3" r="4" fill="var(--s8)" stroke="var(--surface)" stroke-width="2"/><title>2x np1 at 2 in flight: 0.58</title></g>
@@ -289,7 +312,8 @@ Also met the target:
 <g class="pt"><circle cx="503.5" cy="233.7" r="12" fill="transparent"/><circle cx="503.5" cy="233.7" r="4" fill="var(--s8)" stroke="var(--surface)" stroke-width="2"/><title>2x np1 at 8 in flight: 0.47</title></g>
 <g class="pt"><circle cx="550.7" cy="234.2" r="12" fill="transparent"/><circle cx="550.7" cy="234.2" r="4" fill="var(--s8)" stroke="var(--surface)" stroke-width="2"/><title>2x np1 at 10 in flight: 0.45</title></g>
 <g class="pt"><circle cx="650.0" cy="234.4" r="12" fill="transparent"/><circle cx="650.0" cy="234.4" r="4" fill="var(--s8)" stroke="var(--surface)" stroke-width="2"/><title>2x np1 at 16 in flight: 0.45</title></g>
-<text x="660.0" y="253.9" class="lbl">2x np1</text>
+<polyline points="656.0,234.4 662.0,249.9 672.0,249.9" fill="none" stroke="var(--s8)" stroke-width="2"/>
+<text x="676.0" y="253.9" class="lbl">2x np1</text>
 </svg>
 <div class="legend"><span style="--c:var(--s1)">1x np16</span><span style="--c:var(--s2)">2x np16</span><span style="--c:var(--s3)">2x np8</span><span style="--c:var(--s4)">1x np8</span><span style="--c:var(--s5)">2x np4</span><span style="--c:var(--s6)">1x np4</span><span style="--c:var(--s7)">1x np1</span><span style="--c:var(--s8)">2x np1</span></div>
 <h2>All cells</h2><table><thead><tr><th>inst</th><th>np</th><th>batch</th><th>ubatch</th><th>in flight</th><th>total tok/s</th><th>per-person p50</th><th>slowest 10%</th><th>p95 wait s</th><th>avg W</th><th>tok/J</th><th>max C</th><th>errors</th><th>status</th></tr></thead><tbody>

diff --git a/src/amagi_throughput_lab/report.py b/src/amagi_throughput_lab/report.py
@@ -107,15 +107,27 @@ def build_charts(rows):
 
 
 def label_positions(series, frame, min_gap=13):
-    """End-of-line label y positions, nudged apart so they don't overlap."""
+    """End-of-line label y positions, nudged apart so they don't overlap.
+
+    Labels are pushed down to clear each other, then pulled back up as a group if
+    that would run them past the x-axis.
+    """
     ends = sorted(((frame.y(pts[-1][1]), i) for i, (_, _, _, pts) in enumerate(series)))
-    placed = {}
-    last = -1e9
-    for y, i in ends:
-        y = max(y, last + min_gap)
-        placed[i] = y
-        last = y
-    return placed
+    ys, last = [], -1e9
+    for y, _ in ends:
+        last = max(y, last + min_gap)
+        ys.append(last)
+    limit = frame.h - frame.b
+    for k in reversed(range(len(ys))):
+        ys[k] = min(ys[k], limit)
+        limit = ys[k] - min_gap
+    return {i: y for (_, i), y in zip(ends, ys)}
+
+
+def label_leader(frame, pts, label_y):
+    """Points for a short line in the series color from the last point to its label."""
+    ex, ey = frame.x(pts[-1][0]), frame.y(pts[-1][1])
+    return [(ex + 6, ey), (ex + 12, label_y), (ex + 22, label_y)], ex + 26
 
 
 # ---------------------------------------------------------------- SVG / HTML
@@ -146,8 +158,10 @@ def svg_chart(chart, idx):
                        f'fill="transparent"/><circle cx="{f.x(c):.1f}" cy="{f.y(v):.1f}" r="4" '
                        f'fill="{var}" stroke="var(--surface)" stroke-width="2"/>'
                        f'<title>{html.escape(tip)}</title></g>')
-        end_c, _ = pts[-1]
-        out.append(f'<text x="{f.x(end_c) + 10:.1f}" y="{labels[i] + 4:.1f}" class="lbl">'
+        leader, text_x = label_leader(f, pts, labels[i])
+        out.append(f'<polyline points="{" ".join(f"{x:.1f},{y:.1f}" for x, y in leader)}" '
+                   f'fill="none" stroke="{var}" stroke-width="2"/>')
+        out.append(f'<text x="{text_x:.1f}" y="{labels[i] + 4:.1f}" class="lbl">'
                    f'{html.escape(name)}</text>')
     out.append("</svg>")
     return "\n".join(out)
@@ -201,7 +215,7 @@ def render_html(rows, meta, rec=None, model=None):
         ".legend{display:flex;flex-wrap:wrap;gap:4px 16px;font-size:13px;margin:4px 0 0}",
         ".legend span::before{content:'';display:inline-block;width:14px;height:3px;"
         "border-radius:2px;margin-right:6px;vertical-align:middle;background:var(--c)}",
-        "pre{background:var(--code);padding:12px;border-radius:6px;overflow:auto;font-size:13px}",
+        "pre{background:var(--code);padding:12px;border-radius:6px;overflow:auto;white-space:pre-wrap;font-size:13px}",
         "table{border-collapse:collapse;font-size:12.5px;width:100%;margin-top:6px}",
         "th,td{padding:4px 6px;border-bottom:1px solid var(--grid);text-align:right}",
         "th{color:var(--muted);font-weight:600}td:last-child,th:last-child{text-align:left}",
@@ -295,6 +309,8 @@ def render_png(rows, meta, path, scale=2):
                 d.ellipse([px - r - 2 * s, py - r - 2 * s, px + r + 2 * s, py + r + 2 * s],
                           fill=SURFACE)
                 d.ellipse([px - r, py - r, px + r, py + r], fill=color)
-            d.text(P(f.x(pts[-1][0]) + 10, labels[i] - 6), name, fill=INK, font=f_tick)
+            leader, text_x = label_leader(f, pts, labels[i])
+            d.line([P(x, y) for x, y in leader], fill=color, width=2 * s)
+            d.text(P(text_x, labels[i] - 6), name, fill=INK, font=f_tick)
     img.save(path, optimize=True)
     return path

diff --git a/tests/test_report_cli.py b/tests/test_report_cli.py
@@ -82,3 +82,14 @@ def test_batch_lists_can_mix_the_server_default_with_numbers():
     assert opt_int_list("default") == [None]
     assert opt_int_list("default,512,2048") == [None, 512, 2048]
     assert opt_int_list("512,1024") == [512, 1024]
+
+
+def test_end_labels_stay_apart_and_above_the_x_axis():
+    from amagi_throughput_lab.report import Frame, label_positions
+
+    frame = Frame([1, 16], 100)
+    # Eight lines all ending near zero: the labels must not run below the axis.
+    series = [(f"s{i}", "#000", "#000", [(1, 50), (16, 1 + i * 0.1)]) for i in range(8)]
+    ys = sorted(label_positions(series, frame).values())
+    assert ys[-1] <= frame.h - frame.b
+    assert all(b - a >= 13 - 1e-9 for a, b in zip(ys, ys[1:]))
